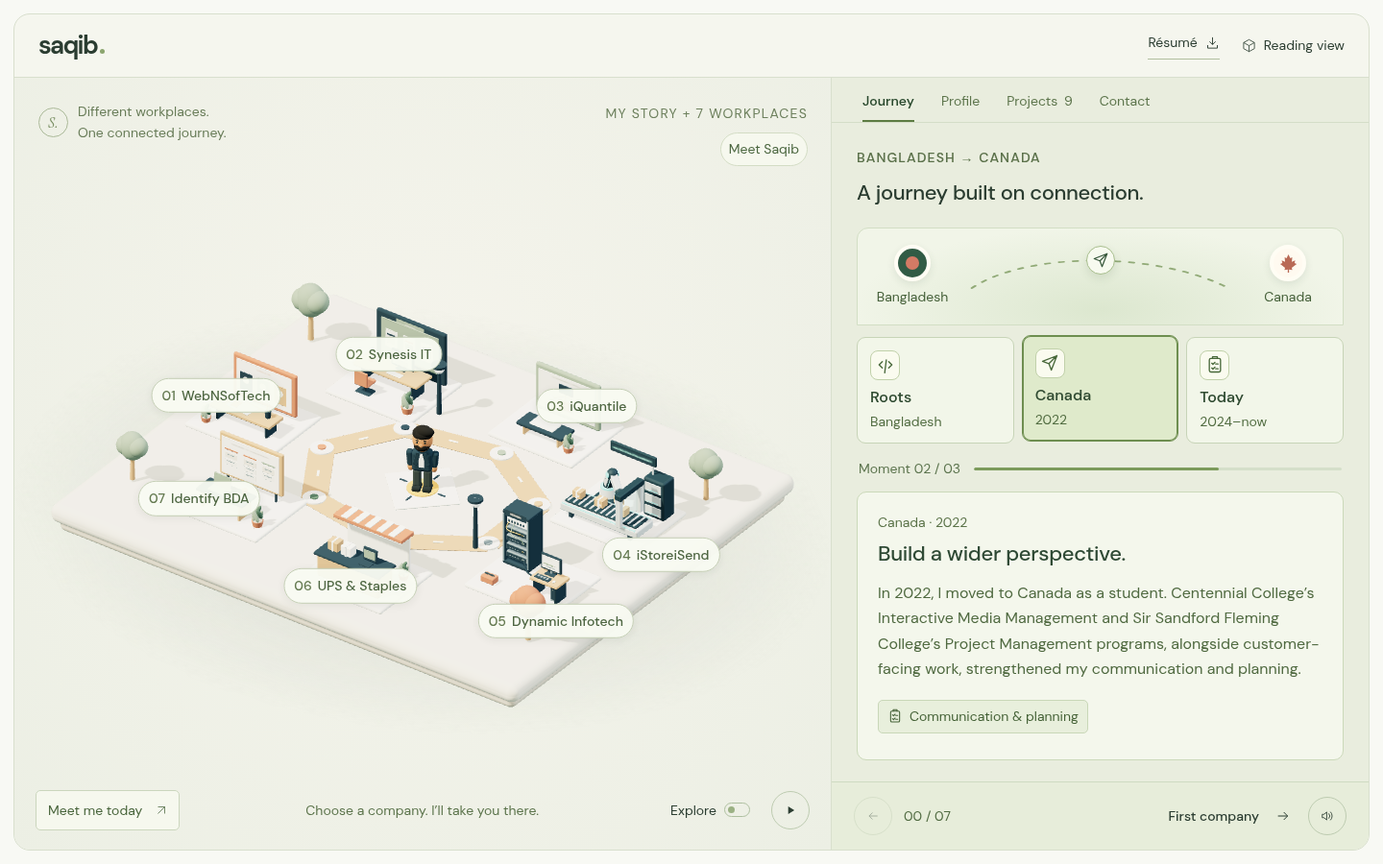
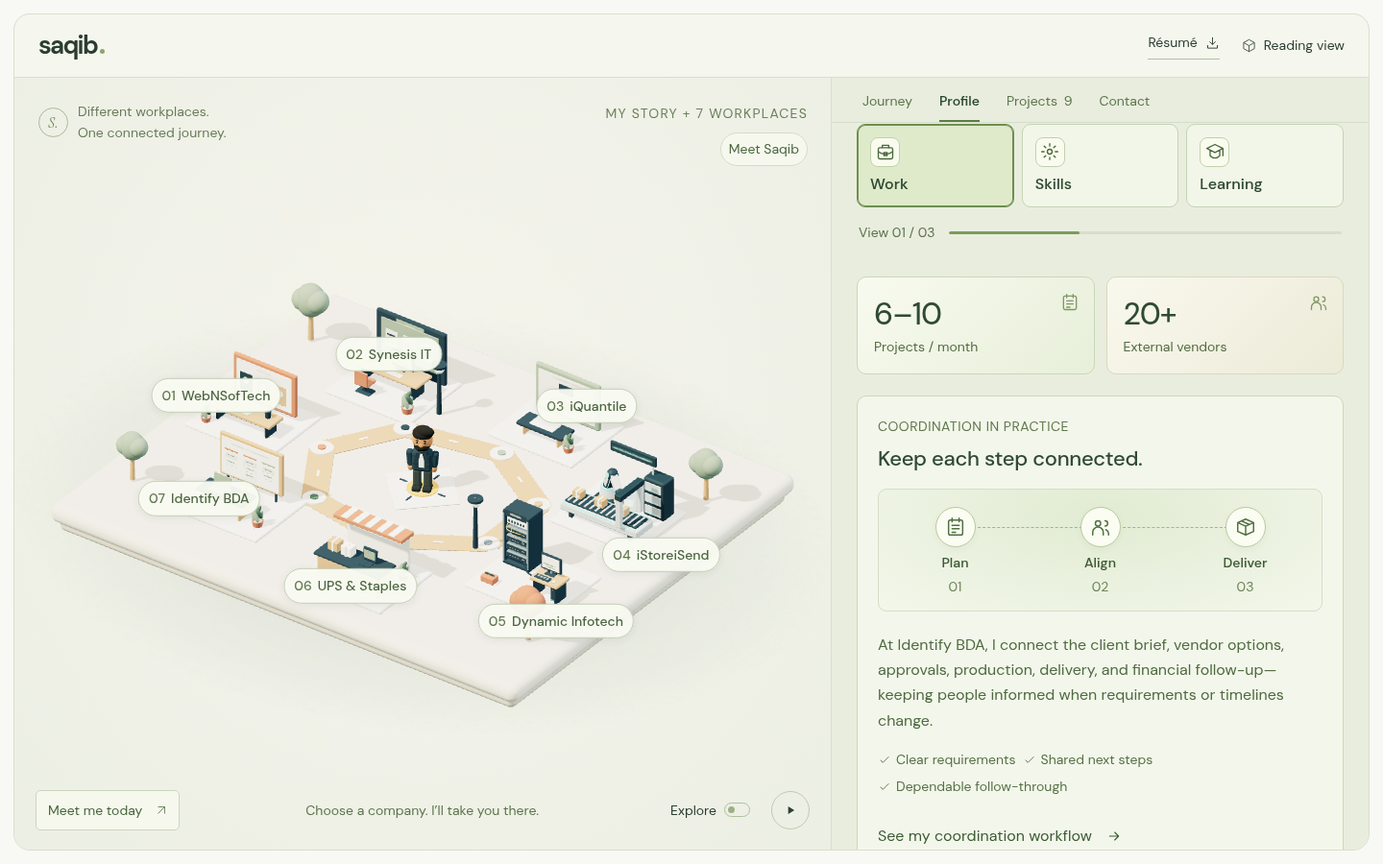
Make the professional profile interactive with Work Skills and Learning cards

diff --git a/src/profile-view.css b/src/profile-view.css
@@ -1,0 +1,85 @@
+.profile-summary { font-size: 1rem; line-height: 1.65; color: #506a41; }
+.profile-target { margin-top: 16px; padding: 13px 15px; border-left: 2px solid #9eb77c; background: #f2f6e9; color: #3f5c34; font-size: 1rem; line-height: 1.6; }
+.profile-target > span { display: block; margin-bottom: 5px; font-size: .875rem; line-height: 1.5; letter-spacing: .6px; color: #62774f; }
+.profile-stat-grid { display: grid; grid-template-columns: repeat(2, minmax(0, 1fr)); gap: 12px; margin: 22px 0; }
+.profile-stat { position: relative; min-width: 0; display: flex; flex-direction: column; gap: 4px; padding: 19px 17px 17px; border: 1px solid #c9d8b9; border-radius: 10px; background: linear-gradient(135deg, #f8faef, #e7efd9); }
+.profile-stat:nth-child(2) { border-color: #d9d9bd; background: linear-gradient(135deg, #f9f8ed, #ecebd8); }
+.profile-stat > strong { font-size: 2rem; line-height: 1.2; font-weight: 450; letter-spacing: -1px; color: #2f4a34; }
+.profile-stat > span:last-child { font-size: .875rem; line-height: 1.5; color: #536c43; }
+.profile-stat-icon { position: absolute; top: 16px; right: 15px; color: #819866; }
+.profile-stat-icon > svg { width: 20px; height: 20px; }
+.profile-explorer { min-width: 0; margin-top: 22px; }
+.profile-tabs { display: grid; grid-template-columns: repeat(3, minmax(0, 1fr)); gap: 8px; }
+.profile-tab { display: flex; min-width: 0; flex-direction: column; align-items: flex-start; gap: 8px; padding: 13px; border: 1px solid #c5d3b6; border-radius: 9px; background: #f2f6e9; text-align: left; transition: transform .18s ease, background .18s ease, border-color .18s ease; }
+.profile-tab:hover { transform: translateY(-2px); border-color: #91aa71; background: #e7efda; }
+.profile-tab[aria-selected=true] { border-color: #6e8e50; box-shadow: inset 0 0 0 1px #6e8e50; background: #dfeacb; }
+.profile-tab:focus-visible { outline: 2px solid #617f41; outline-offset: 3px; }
+.profile-tab-icon { width: 31px; height: 31px; display: grid; place-items: center; border: 1px solid #c2d1ac; border-radius: 8px; background: #fafbef; color: #48683a; }
+.profile-tab-icon > svg { width: 20px; height: 20px; }
+.profile-tab > strong { font-size: 1rem; line-height: 1.3; font-weight: 550; color: #304b32; }
+.profile-explorer-status { display: flex; align-items: center; gap: 14px; padding: 16px 2px 13px; }
+.profile-explorer-count { flex-shrink: 0; font-size: .875rem; line-height: 1.5; color: #5c744e; }
+.profile-explorer-progress { flex: 1; height: 3px; overflow: hidden; border-radius: 3px; background: #d5dfca; }
+.profile-explorer-progress > i { display: block; height: 100%; border-radius: inherit; background: #7c9b5b; transition: width .3s ease; }
+.profile-view { min-width: 0; padding: 21px; border: 1px solid #cad8b9; border-radius: 10px; background: #f3f7eb; animation: profile-reveal .22s ease; }
+.profile-view-label { font-size: .875rem; line-height: 1.5; color: #61784d; letter-spacing: .5px; }
+.profile-view > h3 { font-size: 1.375rem; line-height: 1.3; font-weight: 500; letter-spacing: -.3px; margin: 9px 0 17px; color: #2f4934; }
+.profile-view-copy { font-size: 1rem; line-height: 1.65; color: #506a41; }
+.profile-workflow { position: relative; display: grid; grid-template-columns: repeat(3, minmax(0, 1fr)); gap: 8px; list-style: none; margin: 0 0 22px; padding: 18px 8px 14px; border: 1px solid #d4dec7; border-radius: 9px; background: radial-gradient(ellipse at 50% 20%, #e1ebd2, #f3f7eb); }
+.profile-workflow:before { content: ''; position: absolute; top: 39px; left: 18%; right: 18%; border-top: 1px dashed #9eb781; }
+.profile-workflow > li { position: relative; display: flex; flex-direction: column; align-items: center; gap: 5px; min-width: 0; }
+.profile-workflow-icon { display: grid; place-items: center; height: 42px; width: 42px; margin-bottom: 2px; border: 1px solid #b8cba0; border-radius: 50%; background: #fbfcf2; color: #4f7041; box-shadow: 0 3px 7px #3854320c; }
+.profile-workflow-icon > svg { width: 22px; height: 22px; }
+.profile-workflow strong { font-size: .875rem; line-height: 1.4; font-weight: 550; color: #3e5b34; }
+.profile-workflow li > span:last-child { font-size: .875rem; line-height: 1.4; color: #6f845b; }
+.profile-work-tags { display: flex; flex-wrap: wrap; gap: 7px; margin-top: 17px; }
+.profile-work-tags > span { display: inline-flex; align-items: center; gap: 5px; font-size: .875rem; line-height: 1.5; color: #587247; }
+.profile-work-tags svg { width: 14px; height: 14px; }
+.profile-case-link { display: inline-flex; align-items: center; gap: 15px; margin-top: 22px; padding: 7px 0; border-bottom: 1px solid #93aa77; color: #3b5b32; font-size: 1rem; line-height: 1.5; text-align: left; }
+.profile-case-link:hover { color: #223f27; border-color: #4f703c; }
+.profile-case-link > svg { width: 16px; height: 16px; }
+.profile-skill-list { display: grid; gap: 10px; }
+.profile-skill-card { min-width: 0; border: 1px solid #cad7ba; border-radius: 8px; background: #f8faef; }
+.profile-skill-card > summary { display: flex; align-items: center; gap: 10px; padding: 14px 12px; list-style: none; cursor: pointer; color: #3b5733; font-size: 1rem; line-height: 1.5; }
+.profile-skill-card > summary::-webkit-details-marker { display: none; }
+.profile-skill-card > summary > b { margin-left: auto; font-size: 20px; line-height: 1; font-weight: 350; color: #5c7847; }
+.profile-skill-card[open] > summary > b { transform: rotate(45deg); }
+.profile-skill-symbol { display: grid; place-items: center; flex-shrink: 0; width: 30px; height: 30px; border: 1px solid #d0ddbf; border-radius: 7px; background: #eaf0df; color: #5b7745; }
+.profile-skill-symbol > svg { width: 19px; height: 19px; }
+.profile-skill-body { padding: 0 14px 16px; }
+.profile-skill-body > p { font-size: 1rem; line-height: 1.65; color: #536d43; }
+.profile-skill-tags { display: flex; flex-wrap: wrap; gap: 6px; margin-top: 14px; }
+.profile-skill-tags > span { max-width: 100%; padding: 5px 8px; border: 1px solid #c7d6b5; border-radius: 5px; background: #eaf0df; color: #4e6a3f; font-size: .875rem; line-height: 1.5; }
+.profile-education { display: grid; gap: 12px; }
+.profile-education-card { display: flex; align-items: flex-start; gap: 12px; min-width: 0; padding: 16px 13px; border: 1px solid #cbd8bb; border-radius: 8px; background: #fafbef; }
+.profile-education-card > div { min-width: 0; }
+.profile-education-icon { display: grid; place-items: center; flex-shrink: 0; width: 32px; height: 32px; border: 1px solid #d2ddc4; border-radius: 8px; background: #e8efda; color: #647e4c; }
+.profile-education-icon > svg { width: 21px; height: 21px; }
+.profile-education-card .profile-qualification { font-size: .875rem; line-height: 1.5; color: #667c52; }
+.profile-education-card h4 { font-size: 1rem; line-height: 1.5; font-weight: 550; color: #3c5734; margin: 5px 0; }
+.profile-education-card p { font-size: 1rem; line-height: 1.6; color: #536d44; overflow-wrap: anywhere; }
+.profile-learning-credentials.credentials { margin-top: 20px; padding: 15px 0 0; border-bottom: 0; }
+.profile-learning-credentials.credentials > summary { font-size: 1rem; line-height: 1.5; color: #456137; }
+.profile-learning-credentials.credentials > article > h4 { font-size: 1rem; line-height: 1.6; }
+.profile-learning-credentials.credentials > article > p { font-size: 1rem; line-height: 1.65; }
+.profile-learning-credentials.credentials > article > p > span { font-size: .875rem; }
+.profile-download { width: 100%; margin-top: 24px; font-size: 1rem; }
+@keyframes profile-reveal { from { opacity: 0; transform: translateY(5px); } to { opacity: 1; transform: translateY(0); } }
+@media (max-width: 620px) {
+  .profile-stat-grid { gap: 10px; }
+  .profile-stat { padding: 16px 13px 14px; }
+  .profile-stat-icon { top: 15px; right: 11px; }
+  .profile-stat > strong { font-size: 1.875rem; }
+  .profile-tabs { gap: 6px; }
+  .profile-tab { padding: 11px 10px; }
+  .profile-tab > strong { font-size: .875rem; }
+  .profile-view { padding: 17px; }
+  .profile-view > h3 { font-size: 1.25rem; }
+  .profile-education-card { padding: 14px 11px; gap: 10px; }
+  .profile-education-icon { width: 27px; height: 27px; }
+  .profile-education-icon > svg { width: 18px; height: 18px; }
+}
+@media (prefers-reduced-motion: reduce) {
+  .profile-tab, .profile-explorer-progress > i { transition: none; }
+  .profile-view { animation: none; }
+}

diff --git a/src/profile-view.js b/src/profile-view.js
@@ -1,0 +1,76 @@
+const escapeHtml = value => String(value ?? '').replace(/[&<>"']/g, character => ({ '&': '&amp;', '<': '&lt;', '>': '&gt;', '"': '&quot;', "'": '&#39;' }[character]));
+
+const iconPaths = {
+  work: '<rect x="3" y="7" width="18" height="14" rx="2"/><path d="M8 7V4h8v3M3 12c5 4 13 4 18 0m-11 1h4v4h-4z"/>',
+  skills: '<circle cx="12" cy="12" r="3"/><path d="M12 2v3m0 14v3M2 12h3m14 0h3M5 5l2 2m10 10 2 2M5 19l2-2M17 7l2-2"/>',
+  learning: '<path d="m2 8 10-5 10 5-10 5L2 8Zm4 2v7c4 4 8 4 12 0v-7m4-2v9"/>',
+  plan: '<rect x="4" y="4" width="16" height="17" rx="2"/><path d="M8 2v4m8-4v4M8 10h8m-8 4h8m-8 4h4"/>',
+  people: '<circle cx="9" cy="8" r="3"/><path d="M3 21v-3a6 6 0 0 1 12 0v3m2-16a3 3 0 0 1 0 6m1 4a5 5 0 0 1 3 4v2"/>',
+  delivery: '<path d="m3 7 9-4 9 4-9 4-9-4Zm0 0v10l9 4 9-4V7M12 11v10m-5-16 9 4"/>',
+  vendor: '<path d="m3 12 5-7h8l5 7-9 9-9-9Zm0 0h18M8 5l4 16 4-16"/>',
+  check: '<path d="m5 12 4 4L19 6"/>',
+  arrow: '<path d="M5 12h14m-6-6 6 6-6 6"/>',
+  download: '<path d="M12 3v12m-5-5 5 5 5-5M4 16v5h16v-5"/>',
+};
+const icon = name => `<svg viewBox="0 0 24 24" fill="none" stroke="currentColor" stroke-width="1.6" stroke-linecap="round" stroke-linejoin="round" aria-hidden="true">${iconPaths[name] || iconPaths.work}</svg>`;
+const tabs = [
+  { label: 'Work', icon: 'work' },
+  { label: 'Skills', icon: 'skills' },
+  { label: 'Learning', icon: 'learning' },
+];
+
+export function renderProfile({ professionalSummary = {}, skills = [], education = [], certificates = [], teaching = {} } = {}, { selectedIndex = 0, assetUrl = path => path } = {}) {
+  const selected = Number.isInteger(selectedIndex) ? Math.max(0, Math.min(tabs.length - 1, selectedIndex)) : 0;
+  const summary = String(professionalSummary.body || 'I connect client requirements, vendors, approvals, timelines, and delivery.').split('. ')[0].replace(/\.$/, '') + '.';
+  const targets = professionalSummary.targets?.length ? professionalSummary.targets : ['Project Coordinator', 'Assistant Project Manager'];
+  return `<section class="profile-detail" aria-labelledby="profile-title">
+    <p class="eyebrow">${escapeHtml(professionalSummary.headline || 'Project & Operations Coordinator')}</p>
+    <h2 id="profile-title">People, plans,<br><em>progress.</em></h2>
+    <p class="profile-summary">${escapeHtml(summary)}</p>
+    <div class="profile-explorer" id="profile-explorer" data-profile-view="${selected}">
+      <div class="profile-tabs" role="tablist" aria-label="Explore my professional profile">${tabs.map((tab, index) => `<button type="button" class="profile-tab" id="profile-tab-${index}" data-profile-tab="${index}" role="tab" aria-controls="profile-view-${index}" aria-selected="${index === selected}" tabindex="${index === selected ? 0 : -1}"><span class="profile-tab-icon">${icon(tab.icon)}</span><strong>${tab.label}</strong></button>`).join('')}</div>
+      <div class="profile-explorer-status"><span class="profile-explorer-count" aria-live="polite">View ${String(selected + 1).padStart(2, '0')} / 03</span><span class="profile-explorer-progress" aria-hidden="true"><i style="width:${((selected + 1) / tabs.length) * 100}%"></i></span></div>
+      <div class="profile-stat-grid" aria-label="Current coordination experience">
+        <div class="profile-stat"><span class="profile-stat-icon">${icon('plan')}</span><strong>6–10</strong><span>Projects / month</span></div>
+        <div class="profile-stat"><span class="profile-stat-icon">${icon('people')}</span><strong>20+</strong><span>External vendors</span></div>
+      </div>
+      <section class="profile-view" id="profile-view-0" role="tabpanel" aria-labelledby="profile-tab-0" tabindex="0" ${selected === 0 ? '' : 'hidden'}>
+        <p class="profile-view-label">COORDINATION IN PRACTICE</p><h3>Keep each step connected.</h3>
+        <ol class="profile-workflow" aria-label="Typical coordination workflow">${[['plan', 'Plan'], ['people', 'Align'], ['delivery', 'Deliver']].map(([symbol, label], index) => `<li><span class="profile-workflow-icon">${icon(symbol)}</span><strong>${label}</strong><span>${String(index + 1).padStart(2, '0')}</span></li>`).join('')}</ol>
+        <p class="profile-view-copy">At Identify BDA, I connect the client brief, vendor options, approvals, production, delivery, and financial follow-up—keeping people informed when requirements or timelines change.</p>
+        <div class="profile-work-tags"><span>${icon('check')}Clear requirements</span><span>${icon('check')}Shared next steps</span><span>${icon('check')}Dependable follow-through</span></div>
+        <button type="button" class="profile-case-link" data-project="identify" aria-label="Read From request to delivery project story">See my coordination workflow ${icon('arrow')}</button>
+      </section>
+      <section class="profile-view" id="profile-view-1" role="tabpanel" aria-labelledby="profile-tab-1" tabindex="0" ${selected === 1 ? '' : 'hidden'}>
+        <p class="profile-view-label">WHAT I BRING TO A PROJECT</p><h3>Explore my working strengths.</h3>
+        <div class="profile-skill-list">${skills.map((skill, index) => `<details class="profile-skill-card" ${index === 0 ? 'open' : ''}><summary><span class="profile-skill-symbol">${icon(['plan', 'vendor', 'people', 'delivery'][index])}</span><span>${escapeHtml(skill.title)}</span><b aria-hidden="true">+</b></summary><div class="profile-skill-body"><p>${escapeHtml(skill.description)}</p><div class="profile-skill-tags">${skill.items.map(item => `<span>${escapeHtml(item)}</span>`).join('')}</div></div></details>`).join('')}</div>
+      </section>
+      <section class="profile-view" id="profile-view-2" role="tabpanel" aria-labelledby="profile-tab-2" tabindex="0" ${selected === 2 ? '' : 'hidden'}>
+        <p class="profile-view-label">TECHNICAL FOUNDATION + PROJECT TRAINING</p><h3>Learning that supports delivery.</h3>
+        <div class="profile-education">${education.map(item => `<article class="profile-education-card"><span class="profile-education-icon">${icon('learning')}</span><div><p class="profile-qualification">${escapeHtml(item.qualification)}</p><h4>${escapeHtml(item.title)}</h4><p>${escapeHtml(item.school)}</p></div></article>`).join('')}</div>
+        <details class="profile-learning-credentials credentials"><summary>Courses & knowledge sharing <span aria-hidden="true">+</span></summary>${certificates.map(certificate => `<article><h4>${escapeHtml(certificate.title)}</h4><p>${escapeHtml(certificate.issuer)} · <span>${escapeHtml(certificate.date)}</span></p></article>`).join('')}${teaching.description ? `<article><h4>${escapeHtml(teaching.title || 'Knowledge sharing')}</h4><p>${escapeHtml(teaching.description)}</p></article>` : ''}</details>
+      </section>
+    </div>
+    <p class="profile-target"><span>MY NEXT OPPORTUNITY</span>${escapeHtml(targets.join(' / '))}</p>
+    <a class="button button-dark profile-download" href="${escapeHtml(assetUrl('nazmus-saqib-resume.pdf'))}" download>Download my résumé ${icon('download')}</a>
+  </section>`;
+}
+
+export function activateProfileTab(container, index, { focus = false } = {}) {
+  if (!container) return false;
+  const buttons = [...container.querySelectorAll('[data-profile-tab]')];
+  if (!Number.isInteger(index) || index < 0 || index >= buttons.length) return false;
+  container.dataset.profileView = String(index);
+  buttons.forEach((button, buttonIndex) => {
+    const selected = buttonIndex === index;
+    button.setAttribute('aria-selected', String(selected));
+    button.tabIndex = selected ? 0 : -1;
+  });
+  container.querySelectorAll('.profile-view').forEach((panel, panelIndex) => { panel.hidden = panelIndex !== index; });
+  const progress = container.querySelector('.profile-explorer-progress > i');
+  if (progress) progress.style.width = `${((index + 1) / buttons.length) * 100}%`;
+  const counter = container.querySelector('.profile-explorer-count');
+  if (counter) counter.textContent = `View ${String(index + 1).padStart(2, '0')} / ${String(buttons.length).padStart(2, '0')}`;
+  if (focus) buttons[index].focus({ preventScroll: true });
+  return true;
+}

diff --git a/src/main.js b/src/main.js
@@ -3,8 +3,10 @@ import '@fontsource/instrument-serif/latin-400-italic.css';
 import { aboutMe, careerStops, professionalSummary, formatTenure, projects, skills, education, certificates, teaching } from './content.js';
 import { renderProjectCard, renderProjectDetail } from './project-view.js';
 import { renderStoryJourney, activateStoryMilestone } from './story-view.js';
+import { renderProfile, activateProfileTab } from './profile-view.js';
 import './project-view.css';
 import './story-view.css';
+import './profile-view.css';
 
 const icons = {
   arrow: '<svg viewBox="0 0 24 24" fill="none" aria-hidden="true"><path d="M5 19 19 5M5 5h14v14" stroke="currentColor" stroke-width="1.5"/></svg>',
@@ -26,6 +28,7 @@ const latest = careerStops.length - 1;
 let world, active = -1, panel = 'journey', reading = false, exploring = false, paused = motionPreference.matches;
 let toastTimer, speaking = false, dialogTrigger, disposed = false;
 let selectedStoryMilestone = 0;
+let selectedProfileTab = 0;
 
 document.querySelector('#app').innerHTML = `
   <a class="skip-link" href="#sidebar-body">Skip to career details</a>
@@ -84,7 +87,7 @@ function companyMarkup(stop, index, compact = false) {
 }
 
 function profileMarkup() {
-  return `<section class="profile-detail"><p class="eyebrow">PROJECT DELIVERY / COORDINATION / OPERATIONS</p><h2>A practical partner<br>for <em>project delivery.</em></h2><p class="full-summary">${esc(professionalSummary.body)}</p><p class="target-statement">I’m pursuing <strong>Project Coordinator</strong> and <strong>Assistant Project Manager</strong> opportunities where clear communication, organized delivery, and dependable follow-through matter.</p><div class="profile-metrics"><div><strong>6–10</strong><span>Projects / month</span></div><div><strong>20+</strong><span>External vendors</span></div></div><h3 class="detail-heading">Qualifications</h3><div class="education-list">${education.map(e=>`<article><span>${esc(e.qualification)}</span><h4>${esc(e.title)}</h4><p>${esc(e.school)}</p></article>`).join('')}</div><h3 class="detail-heading">What I bring to a project</h3><div class="skills-list">${skills.map(s=>`<article><h4>${esc(s.title)}</h4><p>${esc(s.description)}</p><div class="tag-list">${s.items.map(item=>`<span>${esc(item)}</span>`).join('')}</div></article>`).join('')}</div><details class="credentials"><summary>Courses & knowledge sharing <span>+</span></summary>${certificates.map(c=>`<article><h4>${esc(c.title)}</h4><p>${esc(c.issuer)} · ${esc(c.date)}</p></article>`).join('')}<article><h4>Trainer · Wireframe & Prototype in XD</h4><p>Synesis IT · August 17, 2021</p></article></details><a class="button button-dark full-resume" href="${assetUrl('nazmus-saqib-resume.pdf')}" download>Download my résumé ${icons.download}</a></section>`;
+  return renderProfile({professionalSummary,skills,education,certificates,teaching},{selectedIndex:selectedProfileTab,assetUrl});
 }
 
 let projectFilter = 'all';
@@ -139,7 +142,16 @@ function showStoryMilestone(index, focus = false) {
   activateStoryMilestone(document.querySelector('#story-journey'),index,{focus});
 }
 
+function showProfileTab(index, focus = false) {
+  const explorer=document.querySelector('#profile-explorer');
+  if(!explorer||!Number.isInteger(index)||index<0||index>=explorer.querySelectorAll('[data-profile-tab]').length)return;
+  selectedProfileTab=index;
+  stopSpeech();
+  activateProfileTab(explorer,index,{focus});
+}
+
 document.querySelector('#app').addEventListener('click',event=>{
+  const profileTab=event.target.closest('[data-profile-tab]');if(profileTab){showProfileTab(Number(profileTab.dataset.profileTab));return;}
   const milestone=event.target.closest('[data-story-milestone]');if(milestone){showStoryMilestone(Number(milestone.dataset.storyMilestone));return;}
   const aboutJump=event.target.closest('[data-about-jump]');if(aboutJump){stopSpeech();const body=document.querySelector('#sidebar-body');const target=body.querySelector(aboutJump.dataset.aboutJump==='story'?'#about-story-title':'#about-goal-title');if(target){target.focus({preventScroll:true});body.scrollTo({top:body.scrollTop+target.getBoundingClientRect().top-body.getBoundingClientRect().top-12,behavior:motionPreference.matches?'instant':'smooth'});}return;}
   const project=event.target.closest('[data-project]');if(project){openProject(project.dataset.project,project);return;}
@@ -158,6 +170,17 @@ document.querySelector('#app').addEventListener('keydown',event=>{
   if(event.key==='End')next=count-1;
   if(next===undefined)return;
   event.preventDefault();showStoryMilestone(next,true);
+});
+document.querySelector('#app').addEventListener('keydown',event=>{
+  const tab=event.target.closest('[role="tab"][data-profile-tab]');if(!tab)return;
+  const index=Number(tab.dataset.profileTab),count=document.querySelectorAll('#profile-explorer [data-profile-tab]').length;
+  let next;
+  if(event.key==='ArrowRight')next=(index+1)%count;
+  if(event.key==='ArrowLeft')next=(index-1+count)%count;
+  if(event.key==='Home')next=0;
+  if(event.key==='End')next=count-1;
+  if(next===undefined)return;
+  event.preventDefault();showProfileTab(next,true);
 });
 document.querySelector('#previous-stop').addEventListener('click',()=>selectStop(active-1));
 document.querySelector('#next-stop').addEventListener('click',()=>selectStop(active===latest?-1:active+1));

diff --git a/tests/portfolio.spec.js b/tests/portfolio.spec.js
@@ -185,10 +185,41 @@ test('profile, qualifications, projects, and contact remain in the same viewport
   await expect(page.locator('#about-card')).toContainText('Assistant Project Manager');
   await page.locator('[data-panel="profile"]').click();
   const detail = page.locator('#sidebar-body');
-  await expect(detail).toContainText('Computer Science & Engineering');
-  await expect(detail).toContainText('Sir Sandford Fleming College');
-  await expect(detail).toContainText('Centennial College');
+  await expect(page.locator('#profile-view-0')).toBeVisible();
+  await expect(detail.getByText('6–10', { exact: true })).toBeVisible();
+  await expect(detail.getByText('20+', { exact: true })).toBeVisible();
   await expect(detail).toContainText('Assistant Project Manager');
+
+  await page.locator('[data-profile-tab="1"]').click();
+  const skillsPanel = page.locator('#profile-view-1');
+  await expect(skillsPanel).toBeVisible();
+  const vendorSkills = skillsPanel.locator('details').filter({ hasText: 'Connect the right partners.' });
+  await vendorSkills.locator('summary').click();
+  await expect(vendorSkills.getByText('Pricing negotiation', { exact: true })).toBeVisible();
+  await page.locator('[data-profile-tab="1"]').focus();
+  await page.keyboard.press('ArrowRight');
+  await expect(page.locator('[data-profile-tab="2"]')).toBeFocused();
+  await expect(page.locator('[data-profile-tab="2"]')).toHaveAttribute('aria-selected', 'true');
+  const learningPanel = page.locator('#profile-view-2');
+  await expect(learningPanel).toBeVisible();
+  for (const qualification of ['Computer Science & Engineering', 'Sir Sandford Fleming College', 'Centennial College']) {
+    await expect(learningPanel.getByText(qualification, { exact: true })).toBeVisible();
+  }
+  const credentials = learningPanel.locator('.credentials');
+  await credentials.locator('summary').click();
+  await expect(credentials.getByText('CalArts · Coursera', { exact: false })).toBeVisible();
+  await expect(credentials).toContainText('August 17, 2021');
+  await expect(page.locator('#profile-explorer [role="tabpanel"]:visible')).toHaveCount(1);
+  await page.locator('[data-profile-tab="2"]').focus();
+  await page.keyboard.press('Home');
+  await expect(page.locator('[data-profile-tab="0"]')).toBeFocused();
+  await expect(page.locator('#profile-view-0')).toBeVisible();
+  const coordinationStory = page.locator('#profile-view-0').getByRole('button', { name: 'Read From request to delivery project story', exact: true });
+  await coordinationStory.click();
+  await expect(page.locator('#dialog-title')).toHaveText('From request to delivery');
+  await page.locator('#dialog-close').click();
+  await expect(coordinationStory).toBeFocused();
+
   await detail.evaluate(element => element.scrollTop = element.scrollHeight);
   await expect(page.getByRole('link', { name: 'Download my résumé' })).toBeVisible();
   const pdf = await request.get(await page.getByRole('link', { name: 'Download my résumé' }).getAttribute('href'));
@@ -238,6 +269,10 @@ for (const viewport of [{ width: 390, height: 844 }, { width: 360, height: 640 }
     await page.locator('#dialog-close').click();
     await assertSingleViewport(page);
     await page.locator('[data-panel="profile"]').click();
+    await page.locator('[data-profile-tab="2"]').click();
+    await expect(page.locator('#profile-view-2')).toBeVisible();
+    await expect(page.locator('#profile-view-2')).toContainText('Centennial College');
+    expect(await page.locator('#profile-view-2').evaluate(element => element.scrollWidth <= element.clientWidth)).toBe(true);
     await page.locator('#sidebar-body').evaluate(element => element.scrollTop = element.scrollHeight);
     await expect(page.getByRole('link', { name: 'Download my résumé' })).toBeVisible();
     await assertSingleViewport(page);

diff --git a/README.md b/README.md
@@ -44,6 +44,7 @@ For a local Pages-path regression check, serve the build with `npm run preview -
 
 - “00 About Me & My Story” introduces Saqib’s name, position, professional statement, tagline, motivation, goal, and journey from Bangladesh to Canada. “THE WORLD OF MY WORK / PEOPLE. PLANS. FOLLOW-THROUGH.” appears below the career goal as a closing statement. Its quick links jump to the story or goal inside the panel. Select the wordmark or central compass to return to the introduction.
 - The Bangladesh–Canada story uses three selectable milestones: Roots, Canada, and Today. Each reveals a short passage and a transferable skill, while the route marker and progress indicator follow the selection. Arrow keys, Home, and End work while a milestone tab is focused; reduced-motion preferences disable transitions.
+- Profile uses matching Work, Skills, and Learning cards. Explore the coordination workflow, expand practical skill groups, and browse education, courses, and knowledge sharing. The current-work card opens the coordination case study; the résumé download stays available below the profile.
 - Choose a company in the 3D world or use the Previous/Next chapter controls. Employer chapters remain numbered 01–07, with role, month/year dates, tenure, and clickable project names.
 - “First company” begins the employment journey; “Next company” follows the chronological order. “Meet me today” jumps to Identify BDA. The world and content fill the space below the header.
 - “Explore” enables WASD / arrow-key movement while the canvas has keyboard focus; on-screen controls support touch.
@@ -60,6 +61,7 @@ For a local Pages-path regression check, serve the build with `npm run preview -
 - `src/styles.css`: responsive interface styling, with 16px body text and labels and controls of at least 14px. Internally scrolling panels preserve readable type inside the viewport.
 - `src/project-view.js` and `src/project-view.css`: reusable project previews and case-study presentation inside the viewport.
 - `src/story-view.js` and `src/story-view.css`: the illustrated story route, accessible milestone tabs, and brief story cards. `aboutMe.storyMilestones` is the single source for the shortened copy and narration.
+- `src/profile-view.js` and `src/profile-view.css`: the interactive professional profile, using the supplied summary, skills, education, and credentials. Its tabs support the same arrow-key, Home, and End navigation as the story.
 - `public/projects/`: optimized previews from supplied project files. Original career records, project source files, and confidential documents are **not** public assets.
 - `public/favicon.svg`: the site icon. The wordmark is styled in CSS, interface icons are inline SVG in `src/main.js`, and illustrative project covers are generated from HTML/CSS. No external icon account or asset download is required.
 - `public/licenses/`: original dependency license notices, also copied into the built website.
